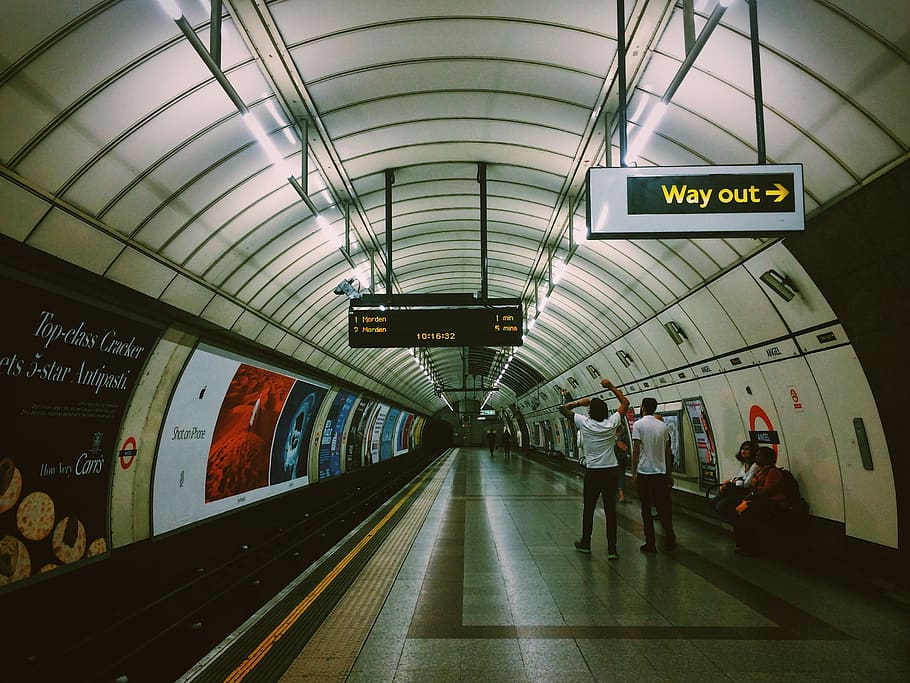
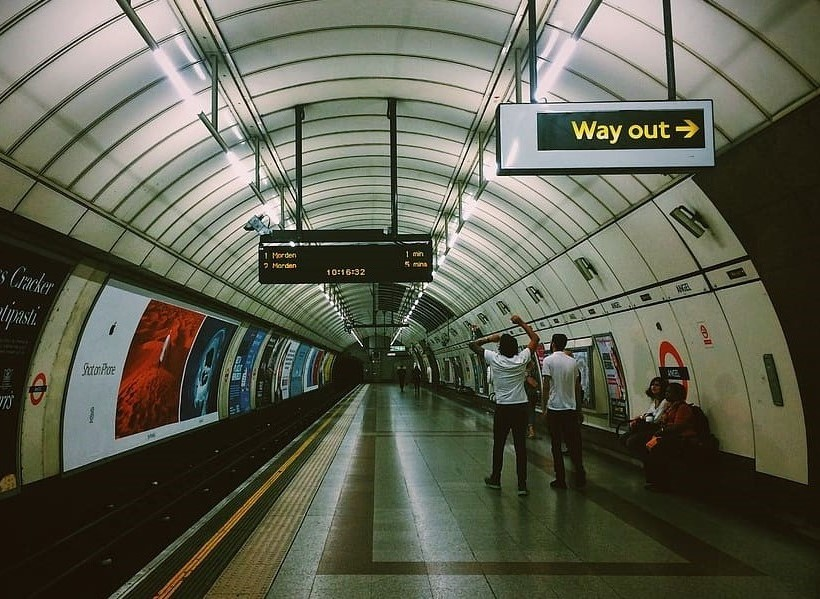
styled hero, adjusted background

diff --git a/style.css b/style.css
@@ -16,20 +16,19 @@ body {
     url("/Media/underground.jpg");
   background-repeat: no-repeat;
   background-size: cover;
-  padding-top: 50px;
+  padding-top: 200px;
   margin: 0 auto;
-  height: 900px;
+  height: 800px;
+  text-align: center;
 }
-/*   
-    filter: brightness(50%); */
-
-h1 {
+  h1 {
   color: var(---basetextcolor);
   font-size: 120px;
   font-weight: 800;
   text-align: center;
   letter-spacing: 5px;
   font-family: "Bitter", serif;
+  margin: 0;
 }
 h2 {
   color: var(---basetextcolor);
@@ -37,16 +36,39 @@ h2 {
   font-style: italic;
   font-weight: 500;
   text-align: center;
+  margin: 10px 0 200px 0;
 }
 
-hero .a {
-  padding: 10px;
+.hero a {
+  padding: 10px 25px;
+  background-color:black ;
+  color: var(---basetextcolor) ;
+  text-decoration: none;
+  border-radius: 20px;
+ border: 3px solid var(---basetextcolor) ;
+  display: inline-block;
+  margin: 0 auto;
+  text-align: center;
+ 
 }
+/*  */
+
+.playlist {
+    margin-top: 30px;
+    
+}
+
+.showcase{
+    filter: grayscale(1)brightness(70%);
+}
+
+
+/*  */
 .wayout {
-    border-top:5px solid whitesmoke;
-    border-right:20px solid whitesmoke;
-    border-bottom:15px solid whitesmoke;
-    border-left:5px solid whitesmoke;
+  border-top: 5px solid whitesmoke;
+  border-right: 20px solid whitesmoke;
+  border-bottom: 15px solid whitesmoke;
+  border-left: 5px solid whitesmoke;
   margin: 10px 0 0 30px;
   font-weight: 800;
   color: #ffeb36;
@@ -60,6 +82,7 @@ hero .a {
   text-decoration: none;
   padding: 8px 28px 8px 2px;
   filter: brightness(70%);
+  border-radius: 2px;
 }
 .arrowimg {
   height: 18px;

diff --git a/index.html b/index.html
@@ -31,14 +31,18 @@ font-family: 'Zeyada', cursive; -->
   </head>
   <body>
     <div class="hero">
-     
       <h1>London</h1>
       <h2>a musical journey</h2>
-      <a href="">LEARN MORE</a>
+      <a href="#" class="playButton">listen</a>
     </div>
-    <!-- <div id="songTwo" class="displaysong"></div> -->
+<!--  -->
+    <div class="playlist">
+      <!--  -->
+      <div class="showcase"
+      style="text-align: center">
+      <div id="songTwo" class="displaysong" ></div></div>
+      <!--  -->
 
-    <!-- <div class="playlist">
       <h3>northwest to northeast</h3>
       <button
         class="episode"
@@ -136,11 +140,11 @@ font-family: 'Zeyada', cursive; -->
         <a href="https://github.com/EvaNagengast/SE8" target="_blank">GitHub</a>
       </footer>
     </div>
- -->
-  <a href="" class="wayout"> 
-        
-        <img src="Media/arrow.png" alt="" class="arrowimg">
-        Way out</a>
+
+    <a href="" class="wayout">
+      <img src="Media/arrow.png" alt="" class="arrowimg" />
+      Way out</a
+    >
     <!-- Spotify -->
     <script
       src="https://open.spotify.com/embed-podcast/iframe-api/v1"

diff --git a/java.js b/java.js
@@ -17,3 +17,7 @@ window.onSpotifyIframeApiReady = (IFrameAPI) => {
 
   IFrameAPI.createController(element, options, callback);
 };
+
+
+
+
